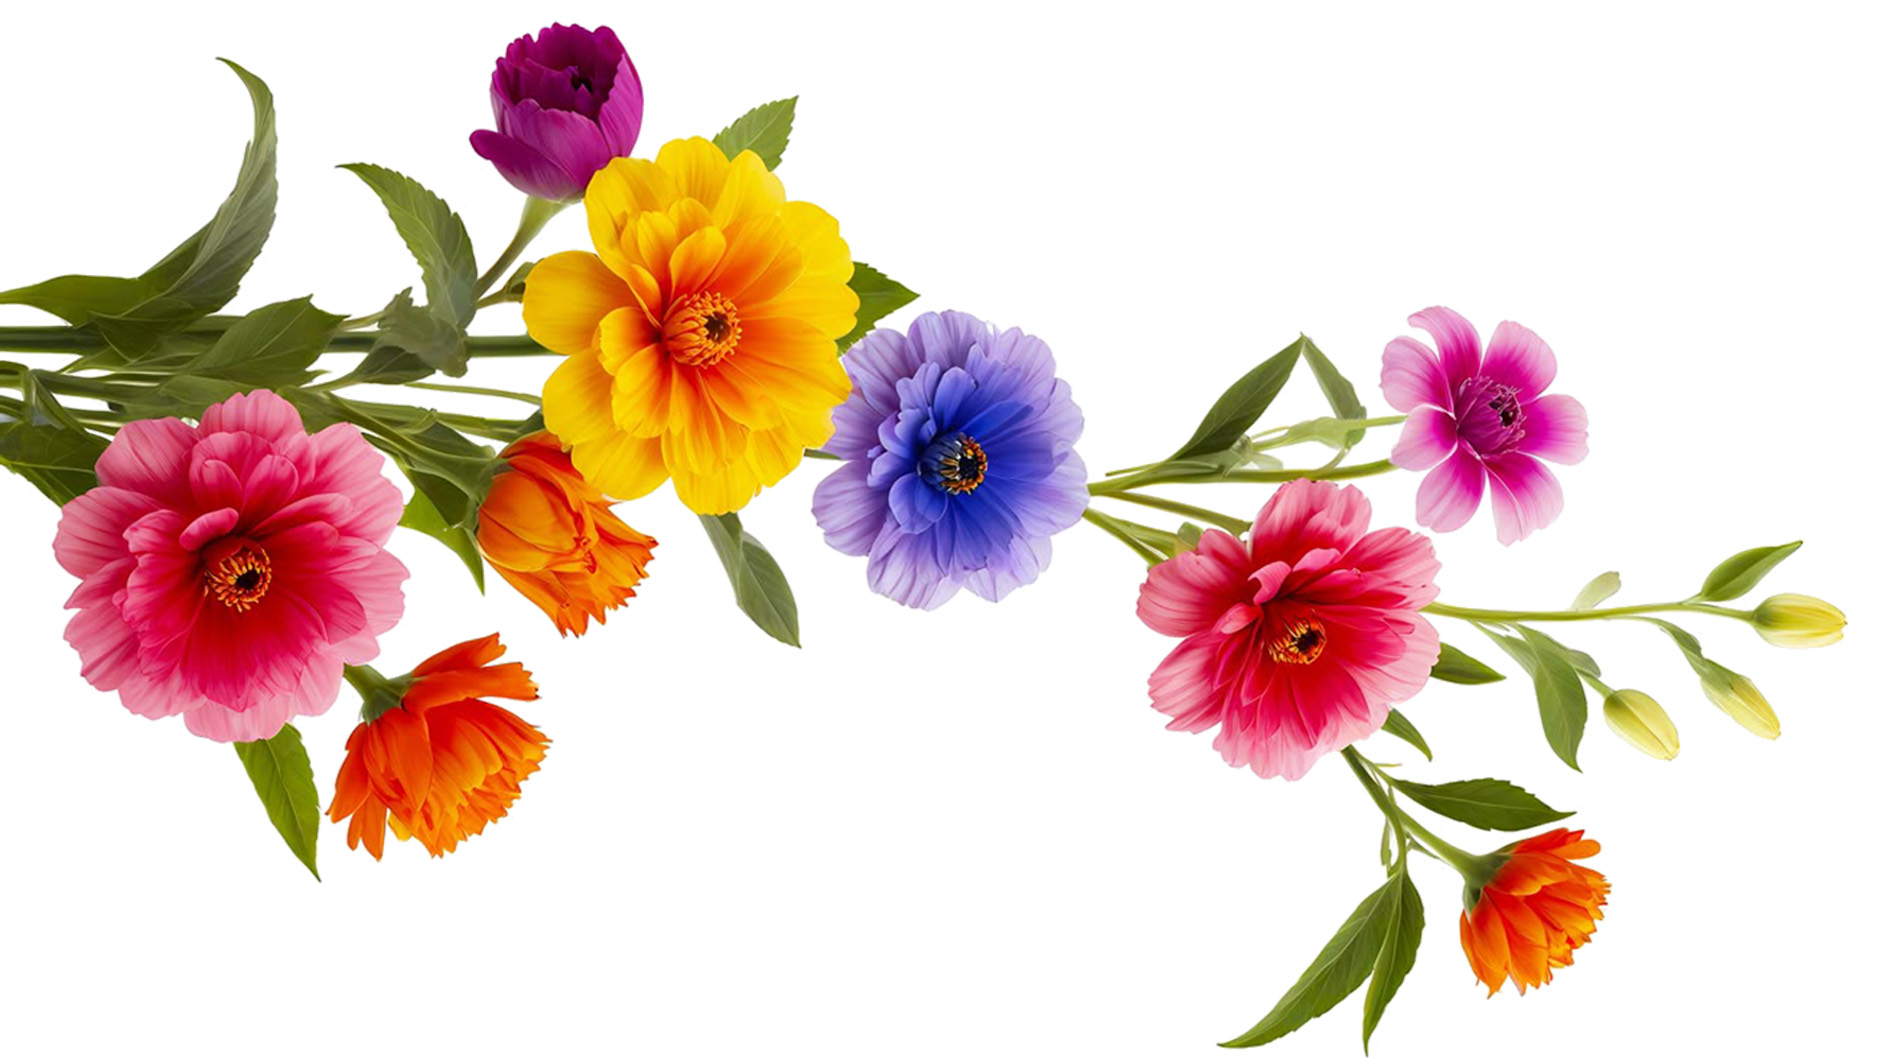
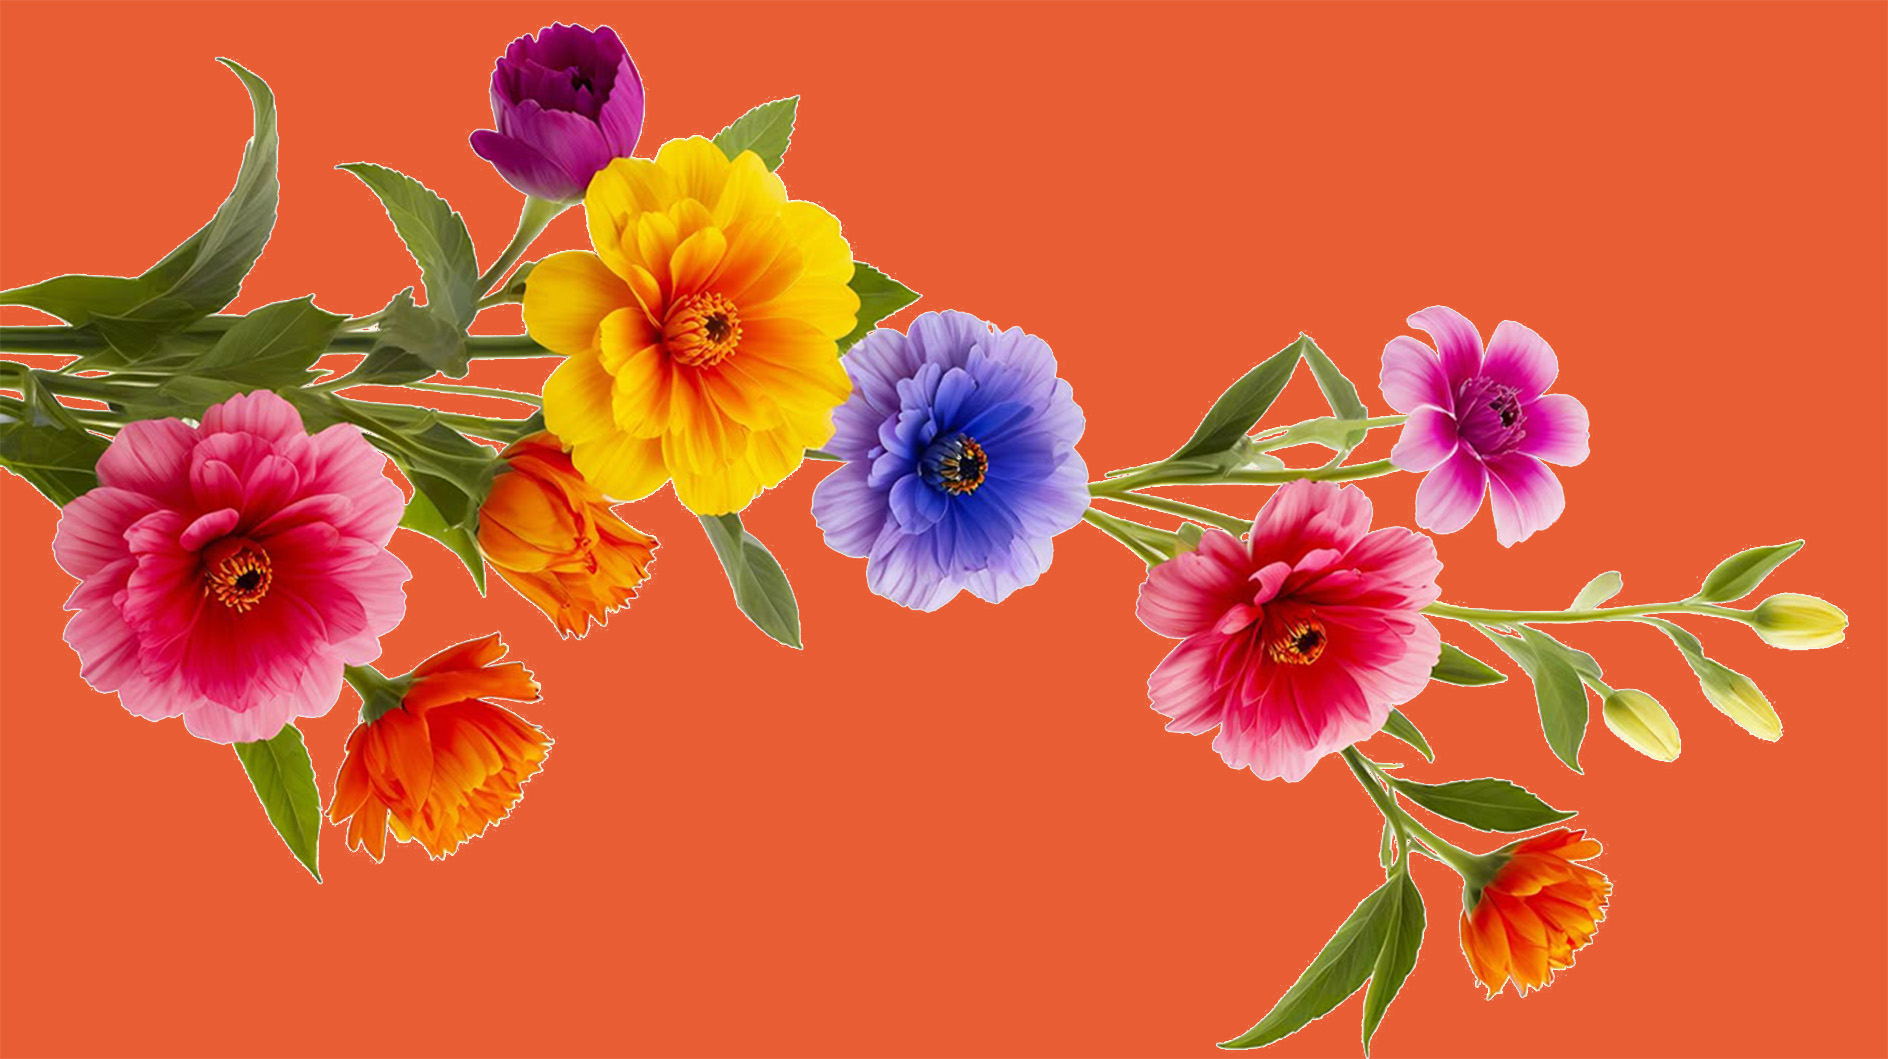
web master flower img

diff --git a/Jobsheet/Jobsheet-09/api/includes/footer.php b/Jobsheet/Jobsheet-09/api/includes/footer.php
@@ -1,5 +1,5 @@
 <footer>
-        <p>&copy; 2026 ADMIN RENTAL &mdash; Jobsheet 7</p>
+        <p>&copy; 2026 ADMIN RENTAL &mdash; Jobsheet 9</p>
     </footer>
     <!-- Jalur JS langsung mengarah ke assets/js/app.js -->
     <script src="../public/assets/js/app.js"></script>
